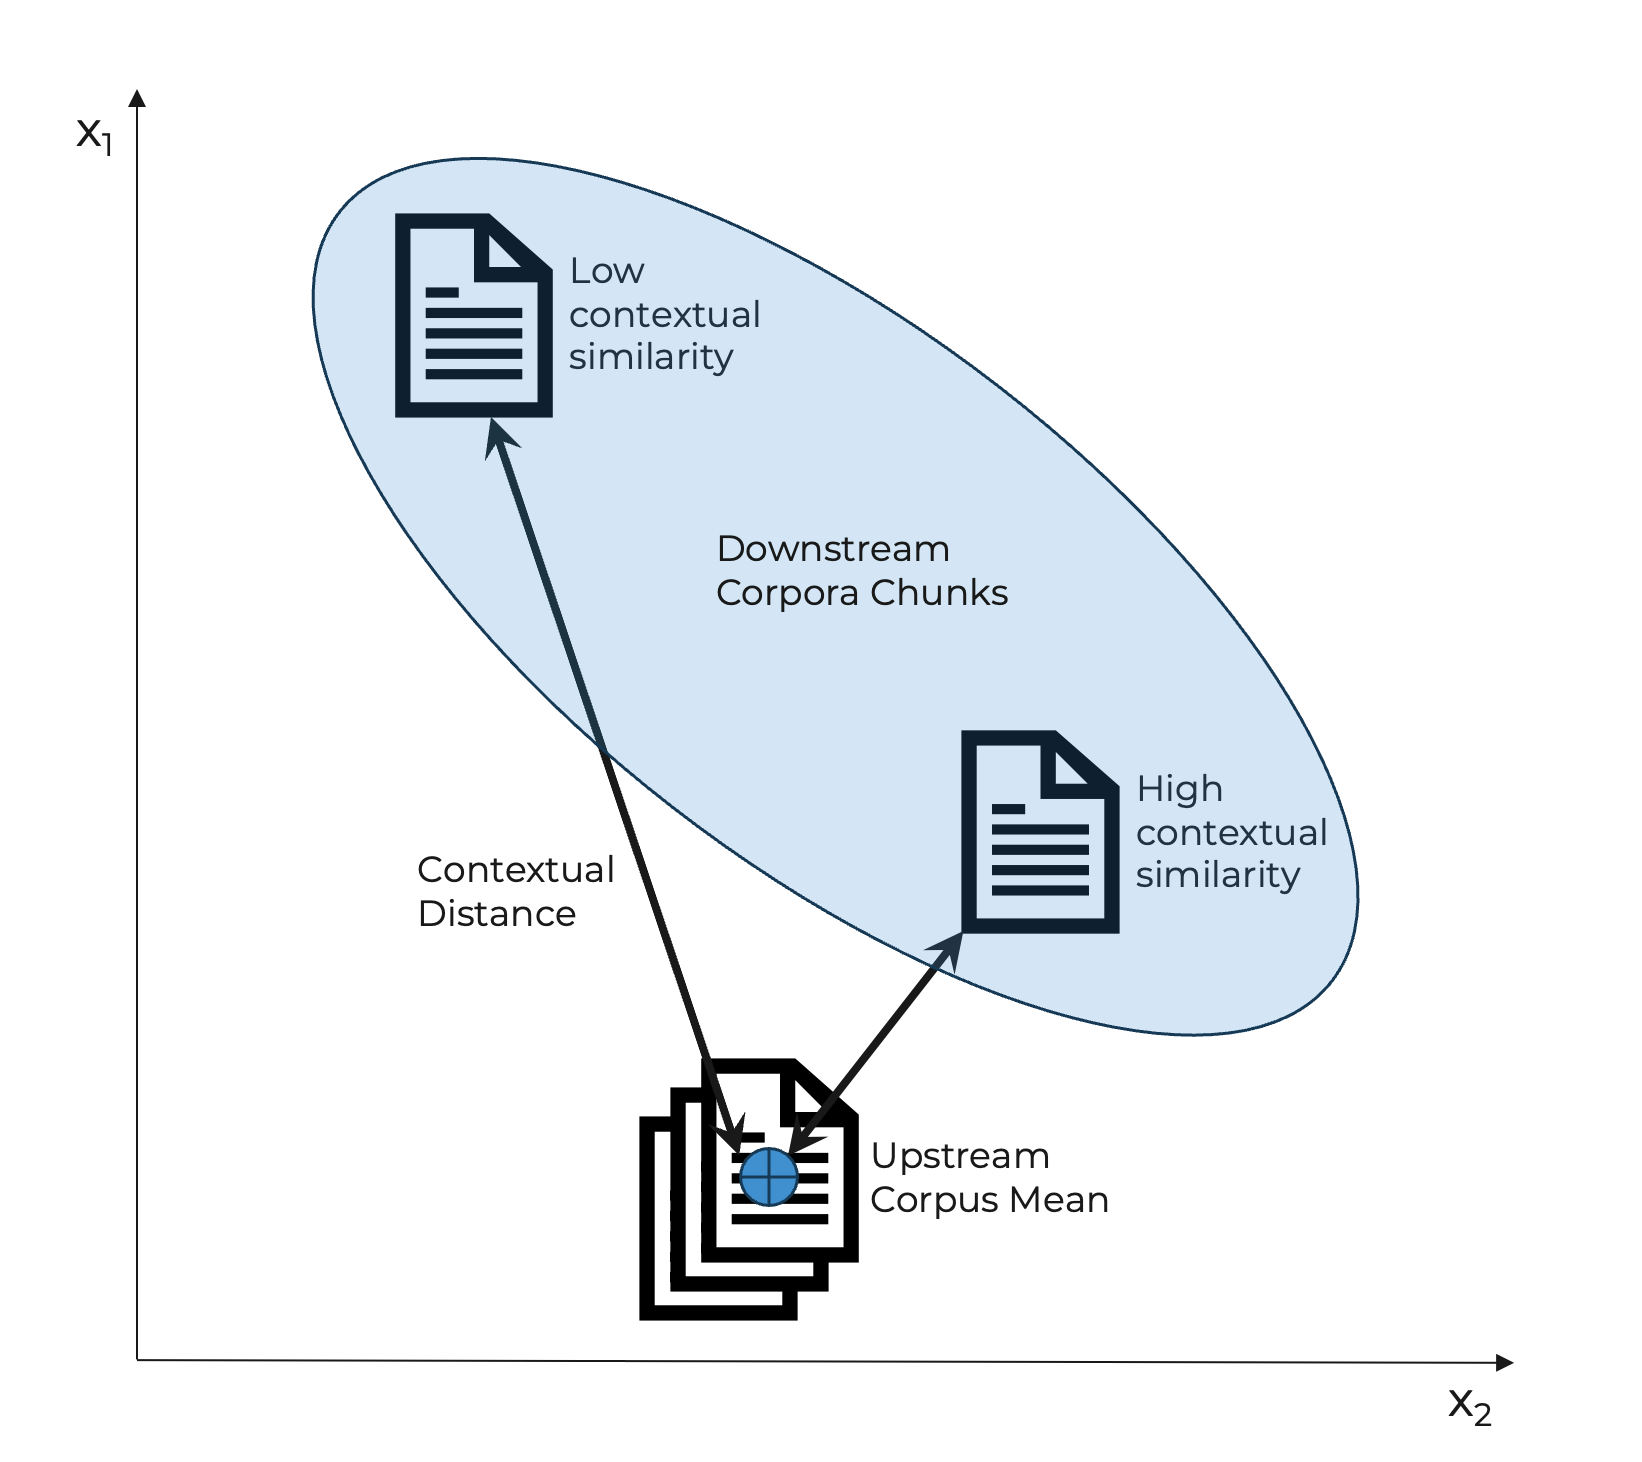
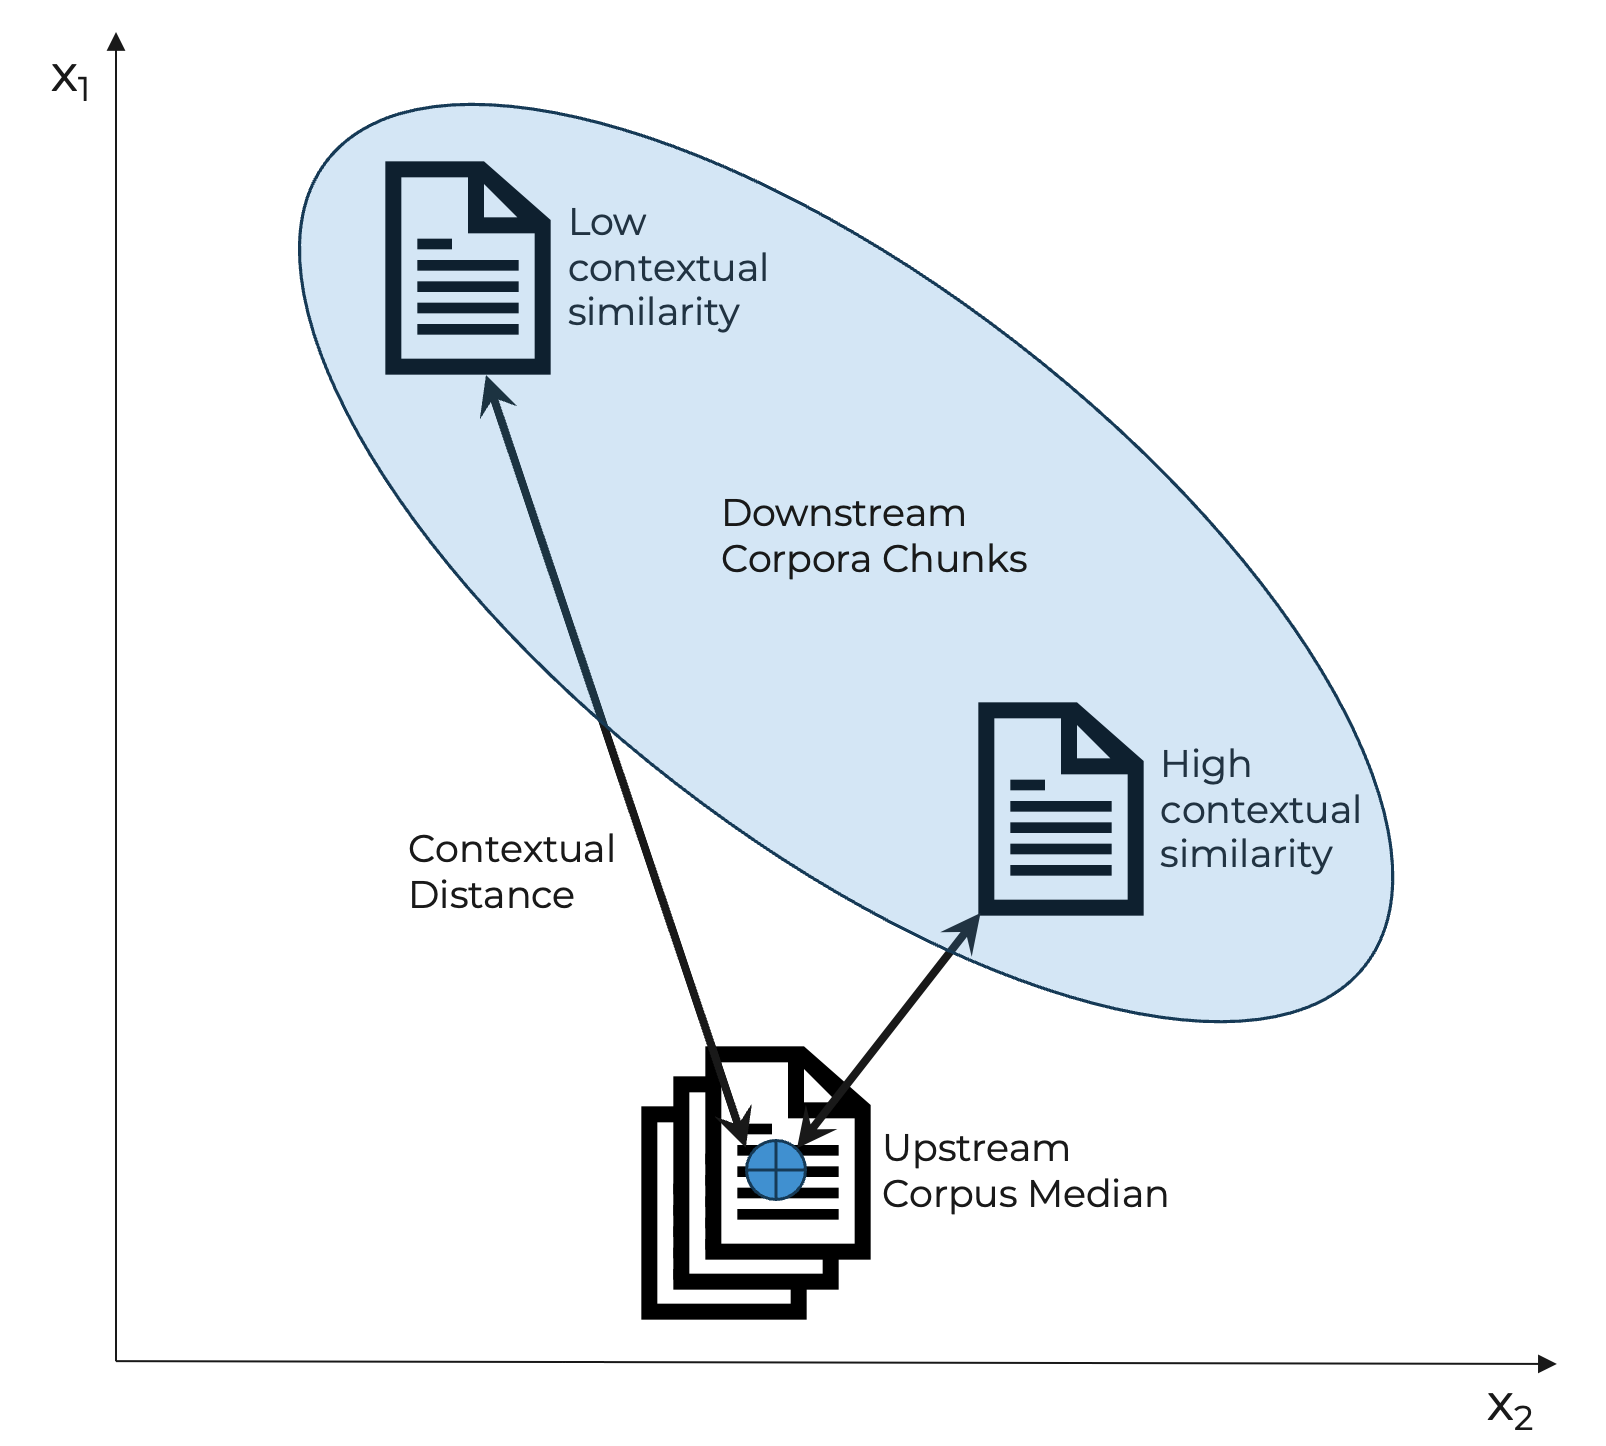
updates for review

diff --git a/NASA Science Alignment with Scientific Community/nasa_consensus_alignmnet.tex b/NASA Science Alignment with Scientific Community/nasa_consensus_alignmnet.tex
@@ -50,6 +50,8 @@
 %% \usepackage{lineno}
 
 %% Added by author
+% Allow long URLs in references to break at hyphens and other safe points.
+\PassOptionsToPackage{hyphens}{url}
 \usepackage{hyperref}
 \hypersetup{
   pdftitle={Measuring NASA Science Plan Alignment with Scientific Consensus: A Case Study in Space Science},
@@ -147,18 +149,19 @@
 %%%%%%%%%%%%%%%%%%%%%%%%%%%%%%%%%%%%%%%%%%%%%%%%%%%%%%%%%%%%%%%%%%%%%%%%%%%%%%%%%%%
 \begin{abstract}
 %% Text of abstract
-The National Academies of Science, Engineering and Medicine (NAS) conducts Decadal Surveys which NASA uses to prioritize budget and future strategy. This paper investigates how science plans at NASA align with scientific community consensus identified in the Decadal Surveys. We used Natural Language Processing (NLP) to compare these Surveys and NASA science plans, by highlighting similarities and discrepancies. We created a baseline of evidence based on a group of 4 Decadal Surveys from 2001 to 2007 and then we measured the similarities and dissimilarities between NASA science plans against this baseline. Alignment between science plans with baseline Decadal Surveys is shown to decrease over time, which can indicate a potential decreasing effect of earlier Decadal Surveys on later science plans, a shift in scientific consensus, or a shift in operational realities.
+The National Academies of Science, Engineering and Medicine (NAS) conducts Decadal Surveys which NASA uses to prioritize budget and future strategy. This paper investigates how science plans at NASA align with scientific community consensus identified in the Decadal Surveys. We used Natural Language Processing (NLP) to compare these Surveys and NASA science plans, by highlighting similarities and discrepancies. We created a baseline of evidence based on a group of 4 Decadal Surveys from 2001 to 2007 and then we measured the similarities and dissimilarities between NASA science plans against this baseline. Alignment between science plans with baseline Decadal Surveys is shown to decrease over time (-0.001/year, p=0.024), which can indicate a potential decreasing effect of earlier Decadal Surveys on later science plans, a shift in scientific consensus, or a shift in operational realities. Science Mission directorate led science plans have higher median alignment ($p=9.9\times10^{-5}$) than NASA led strategic plans. 
 \end{abstract}
 
 %%Graphical abstract
 \begin{graphicalabstract}
-\includegraphics[width=0.9\textwidth]{fig_graphical_abstract.png}
+\includegraphics[width=0.9\textwidth]{SWARM_ALL.png}
 \end{graphicalabstract}
 
 %%Research highlights
 \begin{highlights}
-\item Investigation of NASA Space Science Plans alignment with Decadal Surveys
-\item NASA Science plan alignment with Decadal Surveys decreased over time
+\item NLP-based semantic similarity to quantify NASA plan alignment with Decadal Surveys
+\item Median alignment decreases by 0.024 similarity units from 2007 to 2025
+\item SMD led science plans have 0.020 higher median alignment than NASA led strategic plans
 \end{highlights}
 
 %% Keywords
@@ -195,7 +198,7 @@ NASA science policy \sep Decadal Surveys \sep policy alignment \sep natural lang
 %%%%%%%%%%%%%%%%%%%%%%%%%%%%%%%%%%%%%%%%%%%%%%%%%%%%%%%%%%%%%%%%%%%%%%%%%%%%%%%%%%%
 \section{Introduction}
 
-NASA alignment with scientific community interests in science discovery is of major importance to the scientific community because it justifies federal funding of mission priorities, technology development, and theoretical research \cite{nasa_smd_hearing_2024}. Still, limited research has been conducted on this alignment with only two studies seeking to identify this relationship \cite{Trimble2011} \cite {pan2023seven_Decadals}. Trimble first conducted a retrospective review in 2011 by comparing what the Decadal Surveys asked for to what the scientific community received. Trimble found that roughly one third of requested facilities were completed with mostly federal funding within about 15 years. Pan and Trimble then conducted a followup review in 2023 expanding the review to seven astronomy/astrophysics Decadal Surveys over roughly 60 years. They updated their Requests Scorecard reporting 129 requests across Surveys, with 45 federally funded within 15 years, 13 funded within 15 years by mostly other sources, plus an additional 20 eventually built with federal funding, 11 eventually built with mostly other funding, and 38 never or very unlikely. Further, these studies focus solely on Astronomy and Astrophysics. We aim to observe project alignment across all NASA Science Mission Directorates using natural language processing techniques. 
+NASA alignment with scientific community interests in science discovery is of major importance to the scientific community because it justifies federal funding of mission priorities, technology development, and theoretical research \cite{nasa_smd_hearing_2024}. Still, limited research has been conducted on this alignment with only two studies seeking to identify this relationship \cite{Trimble2011} \cite {pan2023seven_Decadals}. Trimble first conducted a retrospective review in 2011 by comparing what the Decadal Surveys asked for to what the scientific community received. Trimble found that roughly one third of requested facilities were completed with mostly federal funding within about 15 years. Pan and Trimble then conducted a followup review in 2023 expanding the review to roughly 60 years.  The survey reported 129 requests across Surveys 45 of which were federally funded within 15 years, 13 were funded within 15 years by mostly other sources. An additional 20 requests were eventually completed with federal funding, 11 were eventually completed with mostly other funding, and 38 were identified as never or very unlikely to be completed. The studies focus solely on Astronomy and Astrophysics. We aim to observe project alignment across all NASA Science Mission Directorates using natural language processing techniques. 
 
 Creating a strategic plan for United States science discovery is a multi-agency, multi-year planning process. Two key corpora result from this planning process. The first corpus is U.S. National Academies of Science, Engineering, and Medicine (Academies) (NAS), which created the Decadal Surveys. The first Decadal Surveys were completed in 1964 in order to prioritize funding for astronomy projects that exceed individual agency budgets\cite{Academies2015_lessons}. The second corpus is composed of NASA planning documents authored at two different organizational levels. NASA Strategic Plans are products of the Office of the Administrator and establish agency goals and objectives\cite{WhiteHouse2021_space_priorities_framework}. SMD Science Plans which are products of NASA Science Mission Directorate and describe directorate-level science priorities, strategies, and implementation approaches.\cite{SMD_2025} In this paper we reefer to strategic and science plans collectively as NASA plans. NASA plans are used to define NASA project priorities while Decadal Surveys are used to identify scientific community interests.
 
@@ -211,26 +214,24 @@ Decadal Surveys are a strategic guide for the planning and execution of United S
 
 Decadal Surveys are important to the entire scientific community. Survey chairs and committee members are accomplished scientists and engineers who are active leaders in their field from top institutions and universities throughout the world. A review of Decadal Survey committee and panel members reflects a distinguished roster of leaders in science and engineering. NASA and National Science Foundation (NSF) officials refer to the Decadal Survey recommendations as a blueprint or guidebook and individual research scientists refer to the Surveys as a "sword and shield": a sword for wining approval and shield against cancellation of federally funded programs. Two independent studies of Surveys in 2011 \cite{Trimble2011} and 2023 \cite{pan2023seven_Decadals} both found that around 71\% of projects identified in the Decadal Surveys are funded by either federal funds or other sources. The US federal government provided majority funding for 37\% of requested items within 15 years of the survey and 53\% of items overall. Other state, private, and foreign sources provided majority funding for 10\% of items within 15 years of the survey and 19\% of items overall. The remaining 29\% of items requested were identified as very unlikely to be built or put in operation. 
 
-Stakeholders in the Decadal Surveys include many U.S. government agencies, departments, and well as private foundations that align with, or justify science funding by, Decadal Surveys such as the Alfred P. Sloan Foundation\cite{Sloan2021_decadal_private_funding} Gordon and Betty Moore Foundation\cite{Moore2017_hera_decadal_priority}, the Simmons foundation and the Heising-Simons Foundation\cite{NSF2023_advanced_simons_observatory}. NASA's Science Mission Directorate (SMD) is a typical and often central sponsor of the Decadal Surveys along with the NSF. Additional science community stakeholders in the Decadal Surveys include DOE, NOAA, and USGS. Congress, the Office fo Management and Budget, and other executive branch agencies use Decadal Surveys to evaluate budgetary plans.
+Stakeholders in the Decadal Surveys include many U.S. government agencies, departments, and private foundations that align with, or justify science funding by, Decadal Surveys such as the Alfred P. Sloan Foundation\cite{Sloan2021_decadal_private_funding} Gordon and Betty Moore Foundation\cite{Moore2017_hera_decadal_priority}, the Simmons foundation and the Heising-Simons Foundation\cite{NSF2023_advanced_simons_observatory}. NASA's Science Mission Directorate (SMD) is a typical and often central sponsor of the Decadal Surveys along with the NSF. Additional science community stakeholders in the Decadal Surveys include DOE, NOAA, and USGS. Congress, the Office fo Management and Budget, and other executive branch agencies use Decadal Surveys to evaluate budgetary plans.
 
 This multi-agency, multi-stakeholder arrangement, as well as the considerable workload, high standards, and complexity of the task causes the process of conducting Decadal Surveys to be long and complex, typically lasting about 2 years from organizing the survey committee through delivery of the final report. The process starts with the Academies creating a statement of task for the committee to respond to. The Academies' Space Studies Board works with other standing committees at the Academies to select a Survey chair and committee of around 20 members. The Survey committee, with help from Academies staff, organizes panels and working groups around science themes such as outer or inner planets, stellar or galaxy evolution, climate variability and change, and solar wind-magnetosphere interactions; observational techniques such as X-ray or radio observations; facilities such as ground-based versus space-based telescopes; and subjects such as infrastructure, research grants, workforce diversity, applications, and graduate education. This freedom of organization allows for the culture of the scientific field and preference of the Survey organizers to mold the committee. The Surveys gather broad community input through public meetings, white papers, and direct presentations. The panels then create a ranked program of missions and activities based on science and observational capabilities specific to the panels area of responsibility. Panel priorities are then ranked across the field by the Survey committee. 
 
-Independent reviews ensure scientific and fiscal rigor. For larger space missions and ground-based facilities, independent cost and technical risk evaluation is conducted through the decadal survey CATE process, typically by The Aerospace Corporation under National Academies oversight, as mandated by Congress \cite{congress2008NASA}. The final survey report separately undergoes the National Academies' independent report-review process to validate that conclusions are supported and documented.
-
-Independent reviews ensure scientific and fiscal rigor. Once panels and committees have completed their work, independent cost and risk evaluation is conducted for larger space missions and ground based facilities as mandated by the U.S. Congress by contracting private companies such as The Aerospace Corporation\cite{congress2008NASA}. The committee's report also undergoes an independent review to validate that conclusions are supported and documented. The final report takes around 2 years to complete and provides a consensus vision of for its respective field.
+Independent reviews ensure scientific and fiscal rigor. Once panels and committees have completed their work, independent cost and risk evaluation is conducted for larger space missions and ground based facilities as mandated by the U.S. Congress. Evaluations are often contracted to private companies such as The Aerospace Corporation\cite{congress2008NASA}. The committee's report also undergoes an independent review to validate conclusions are supported and documented. The final report takes around 2 years to complete and provides a consensus vision of for its respective field.
 
 Follow-up on Decadal Surveys requires multi-agency involvement. Once the Survey report is published the committee is disbanded. Post report stewardship is conducted by standing committees at the Space Studies Board through periodic reviews, which offer guidance to the agencies on Decadal programs. The NASA Advisory Council's Science subcommittees at the Academies follow NASA's progress. A congressionally directed midterm review of Decadal Surveys focus on agency progress to compare activities with Survey science goals is also conducted \cite{congress2005nasa}. The National Science Foundation receives input from the scientific community through proposals to it's various programs. The Department of Energy evaluates progress through extensive internal processes for energy related components of the Surveys while independent committees such as the Astrophysics Advisory Committee, provide advisory services on multi-agency projects.
 
 Decadal Surveys serve as a national science strategy and are intended to inform science strategy at NASA and other federal agencies. 
 
 \subsection{NASA Science Strategy}
-NASA captures it's science strategy in NASA agency strategic plans and NASA Science Mission Directorate science plans. These plans are policy documents that turn national priorities, congressional direction, budget realities, and scientific-community guidance from decadal surveys into NASA’s science objectives and portfolio balance. Instead of focusing on individual missions they set mission-development priorities. 
+NASA captures it's science strategy in NASA agency strategic plans and NASA Science Mission Directorate science plans. These plans are policy documents that turn national priorities, congressional direction, budget realities, and scientific-community guidance from decadal surveys into NASA's science objectives and portfolio balance. Instead of focusing on individual missions they set mission-development priorities. 
 
 NASA relies heavily on Decadal Surveys to inform its science strategy. NASA's 2025 Presidents Budget Request states "SMD uses the recommendations of the National Academies' Decadal Surveys as important inputs in planning and prioritizing the future of its science programs." The same budget references Decadal Surveys 87 times, demonstrating NASA's focus on the Surveys to define science strategy \cite{NASA2025budget}. 
 
 The Decadal Surveys are not the only input to NASA science strategy. The Office of the Chief Scientist (OCS) represents all of the scientific endeavors in the agency, ensuring they are aligned with and fulfill the administration's science objectives \cite{nasa_partnerships_2024}. International scientific consensus is also important, since two-thirds of SMD missions involve international partnerships \cite{nasa_smd_hearing_2024}. 
  
-Science strategy is further refined by operational realities. The SMD Large Mission Study (LMS) Report lays out the most current Simplified Project Lifecycle available. This report identifies 7 Project Life-Cycle Phases, three of which occur prior to implementation and are therefore germane to the the project prioritization process. These 3 phases are: \emph{Phase Pre-A: Concept Studies}, \emph{Phase A: Concept and Technology Development}, and \emph{Phase B: Preliminary Design and Technology Completion}. During this process Decadal Survey recommendations are turned into decisions on mission architectures, preliminary requirements and budget estimates. In the Pre-Phase-A period, missions are not yet projects and focus is on quantifying science vs. cost, exploiting the range of solutions while maintaining dialog with Academy committees to ensure the intent of the Decadal Survey is honored. Once the decision authority determines the project is ready to transition into Pase A, the concept is determined to be executable. The concept begins to be developed into technology in Phase A and preliminary designs are completed in Phase B. Once Phase B is completed the concept becomes a project. \cite{NASA2020_LMS_study} \cite{wessen2013ConceptMaturity}.
+Science strategy is further refined by operational realities. The SMD Large Mission Study (LMS) Report lays out the most current Simplified Project Lifecycle available. This report identifies 7 Project Life-Cycle Phases, three of which occur prior to implementation and are therefore germane to the the project prioritization process. These 3 phases are: \emph{Phase Pre-A: Concept Studies}, \emph{Phase A: Concept and Technology Development}, and \emph{Phase B: Preliminary Design and Technology Completion}. During this process Decadal Survey recommendations are turned into decisions on mission architectures, preliminary requirements and budget estimates. In the Pre-Phase-A period, missions are not yet projects and focus is on quantifying science vs. cost and exploiting the range of solutions while maintaining dialog with Academy committees to ensure the intent of the Decadal Survey is honored. Once the decision authority determines the project is ready to transition into Phase A, the concept is determined to be executable. The concept begins to be developed into technology in Phase A and preliminary designs are completed in Phase B. Once Phase B is completed the concept becomes a project. \cite{NASA2020_LMS_study} \cite{wessen2013ConceptMaturity}.
 
 The science strategy that results from this refinement process is defined in the NASA science strategy documents that are created.
 
@@ -325,39 +326,48 @@ Figure~\ref{fig_simple_context_dist} is a simplified representation of the conte
 \centering
 \includegraphics[width=0.7
 \textwidth]{fig_simple_context_dist.png}
-\caption{\textbf{Simplified Contextual Distance Model.} The variables $X_1$ and $X_2$ represent abstract axes of semantic similarity, simplifying the high-dimensionality space of 1532 dimensions into two unitless axes for visualization. Downstream corpora chunks are represented inside the oval highlight. The mean of the upstream corpus is represented by the blue dot. Lines illustrate the semantic alignment between the upstream and downstream corpora. Closer downstream chunks have higher semantic alignment to the upstream mean.}
+\caption{\textbf{Simplified Contextual Distance Model.} The variables $X_1$ and $X_2$ represent abstract axes of semantic similarity, simplifying the high-dimensionality space of 1532 dimensions into two unitless axes for visualization. Downstream corpora chunks are represented inside the oval highlight. The median of the upstream corpus is represented by the blue dot. Lines illustrate the semantic alignment between the upstream and downstream corpora. Closer downstream chunks have higher semantic alignment to the upstream median.}
 
 \label{fig_simple_context_dist}
 \end{figure}
 
-The alignment of each page in the NASA plan is calculated from the mean of the Decadal Survey sample corpus. The baseline of Decadal Surveys is assigned a distance value of 0. A perfectly aligned page would have a distance of 0 and lie directly on the axis. Individual pages of NASA plans are represented by points shown in Figure~\ref{fig2}. Finally the median similarity of the NASA plan pages is represented by the line plot. 
+The alignment of each page in the NASA plan is calculated from the median of the Decadal Survey sample corpus represented by the blue dot surrounded by multiple pages. Individual pages of NASA plans are represented by individual page icons in Figure~\ref{fig_simple_context_dist}. 
 
-The distance between Decadal Survey and science plans is measured using cosine similarity. Cosine similarity measures the angular distance between word vectors to determine the alignment of each page to the Decadal Survey corpus. Measuring by angular distance inherently normalizes for the natural page length variation in the corpora insuring page size does not skew the alignment scores\cite{manning2008_introduction_ir}. Cosine similarity was used in the training of the original embeddings model\cite{neelakantan2022openAi_embeddings} which creates a geometric structure we can better map to using cosine similarity.  
+The distance between Decadal Survey and science plans is represented by the lines connecting the pages and is measured using cosine similarity. Cosine similarity measures the angular distance between word vectors to determine the alignment of each page to the Decadal Survey corpus. Measuring by angular distance inherently normalizes for the natural page length variation in the corpora insuring page size does not skew the alignment scores\cite{manning2008_introduction_ir}. Cosine similarity was used in the training of the original embeddings model\cite{neelakantan2022openAi_embeddings} which creates a geometric structure we can better map to using cosine similarity. A perfectly aligned page would have a distance of 0 and, correspondingly, a cosine similarity of 1.
 
 %%%%%%%%%%%%%%%%%%%%%%%%%%%%%%%%%%%%%%%%%%%%%%%%%%%%%%%%%%%%%%%%%%%%%%%%%%%%%%%%%%%
 % results
 %%%%%%%%%%%%%%%%%%%%%%%%%%%%%%%%%%%%%%%%%%%%%%%%%%%%%%%%%%%%%%%%%%%%%%%%%%%%%%%%%%%
 \section{Analysis and Results} 
 \label{anal_results}
-Figure~\ref{fig2} displays the analysis of semantic alignment between NASA science plans and Decadal Surveys. The analysis spans from 2007 to 2023. The x-axis displays the publication year of the science plans, while the y-axis shows alignment of science plans to the mean of Decadal Surveys. Each point represents a page from a science plan color coded to distinguish SMD-led plans from NASA-led plans. Points further from the x-axis have lower alignment to the Decadal Survey mean. A solid line represents the median similarity over time to illustrate the overarching trend. 
+Figure~\ref{swarm_all} displays the analysis of semantic alignment between NASA science plans and Decadal Surveys. The analysis spans from 2007 to 2025. The x-axis displays the publication year of the science plans, while the y-axis shows alignment of science plans to the Decadal Survey median. Each point represents a page from a science plan and is color coded to distinguish SMD-led plans from NASA-led plans. Points closer to the x-axis have lower alignment to the Decadal Survey median. A solid line represents the median similarity over time to illustrate the overarching trend. 
+
+Yearly median similarity has an estimated decline of -0.001 similarity units per year coresponding to an overall decline of -0.024 similarity units from 2007 to 2025. A one-sided permutation test indicates this is a true nonzero trend with over 95\% confidence ($p=0.024$). Bootstrap 95\% confidence intervals are negative for both the slope (-0.0024 to -0.0002) and total change (-0.043 to -0.004). A linear fit yields $R^2 = 0.494$ indicating around half of the variation in midian similarity can be explained by time. These results support a modest downward shift in median similarity over time.
 
 \begin{figure}[H]
 \centering
-\includegraphics[width=0.9\textwidth]{fig_SP_to_DS_similarity.png}
-\caption{\textbf{NASA Science Plan Similarity to Decadal Surveys.} Publication year is displayed on the x-axis and semantic aliment to the Decadal Survey mean is measured on the y-axis. Single science plan pages are represented by individual points with color coding to distinguish SMD and NASA led plans. The solid line tracks the trend of median similarity over time.}\label{fig2}
+\includegraphics[width=0.9\textwidth]{SWARM_ALL.png}
+\caption{\textbf{NASA Science Plan Similarity to Decadal Surveys.} Publication year is displayed on the x-axis and semantic aliment to the Decadal Survey median is measured on the y-axis. Single science plan pages are represented by individual points with color coding to distinguish SMD and NASA led plans. The solid line tracks the trend of median similarity over time. Points closer to the x-axis have lower alignment. One-sided permutation test ($p=0.024$) and bootstrap 95\% confidence intervals for slope (-.0024 to -0.0002) support a modest downward shift in median similarity over time.}\label{swarm_all}
 \end{figure}
 
-We can observe two patterns from Figure~\ref{fig2}. First the median similarity of the NASA plans in relation to Decadal Surveys is decreasing over time. Second there is a difference between NASA led plans and SMD led plans as shown by the different colors representing the pages in each corpus.  SMD led plan pages tend to be closer to the Decadal Survey mean. 
+Figure~\ref{SWARM_SMD_vs_NASA} separates Science Mission Directorate led science plans from NASA led strategic plans. Pages in the corpus are once again represented by points on the graph and a median line is placed for each corpus subset. The SMD distribution is visibly shifted upward indicating a higher alignment with decadal surveys. The plotted median lines report a higher median for SMD Science plans ($0.895; n=551$) than for NASA Strategic Plans ($0.875; n=231$) with a difference of 0.020. A two-sided permutation test indicates the difference between medians is statistically significant ($p=9.9\times10^{-5}$) and a bootstrap 95\% confidence interval (0.016 to 0.025) excludes zero, supporting a significant difference between corpora. 
+
+\begin{figure}[H]
+\centering
+\includegraphics[width=0.9\textwidth]{SWARM_SMD_vs_NASA.png}
+\caption{\textbf{NASA Science Mission Directorate and NASA Plans.} SMD alignment scores are shifted upward indicating SMD plans have a higher alignment with decadal surveys. SMD Science plans median (0.895; n=551) compared to NASA Strategic Plans median (0.875; n=231; $Delta=0.020$). The median difference is statistically significant at $p=9.9\times10^{-5}$ from a two-sided permutation test and bootstrap 95\% CI [0.016, 0.025].}\label{SWARM_SMD_vs_NASA}
+\end{figure}
+
+We can observe two patterns from Figure~\ref{swarm_all} and Figure~\ref{SWARM_SMD_vs_NASA}. First the median similarity of the NASA plans in relation to Decadal Surveys is decreasing over time. Second there is a difference between NASA led plans and SMD led plans. SMD led plan pages tend to be closer to the Decadal Survey median.
 %%%%%%%%%%%%%%%%%%%%%%%%%%%%%%%%%%%%%%%%%%%%%%%%%%%%%%%%%%%%%%%%%%%%%%%%%%%%%%%%%%%
 % Discussion
 %%%%%%%%%%%%%%%%%%%%%%%%%%%%%%%%%%%%%%%%%%%%%%%%%%%%%%%%%%%%%%%%%%%%%%%%%%%%%%%%%%%
 \section{Discussion and Future Work}
 \label{discussion}
 
-The decreased alignment over time between NASA plans and Decadal Surveys likely has many causal factors. In addition to Decadal Surveys NASA must have many other competing influences in science plans. We can conjecture that the decreased alignment may be a result of changes in consensus as Surveys are updated, changes in executive branch priorities, changes in congressional funding, or changes in operational realities. This introduces multiple vectors that are not accounted for in an analysis that focuses only on Decadal Surveys alignment to science plans. The limited amount of data due to the once a decade periodicity of Survey publication limits the conclusions that can be drawn and ultimately provides analogous results. 
+The decreased alignment over time between NASA plans and Decadal Surveys likely has many causal factors. In addition to Decadal Surveys NASA must have many other competing influences in science plans. We can conjecture that the decreased alignment may be a result of changes in consensus as Surveys are updated, changes in executive branch priorities, changes in congressional funding, or changes in operational realities. This introduces multiple vectors that are not accounted for in an analysis that focuses only on Decadal Surveys alignment to science plans. The difference in median alignment of SMD Science Plans and NASA Strategic plans is potentially the result of an increased effect from these unaccounted for vectors. The limited amount of data due to the once a decade periodicity of Survey publication limits the conclusions that can be drawn and ultimately provides analogous results. 
 
-The alignment analysis conducted here suggests that measuring the change in semantic similarity is a useful methodology and highlights several areas for further study. This particular study could be expanded by categorizing Decadal Surveys into the 5 SMD divisions and exploring a more fine grained analysis of each scientific community. As a general approach, cross corpus contextual similarity analysis may be useful in other other areas where cross organizational alignment is a concern.  The approach could be extended by comparing page level, or smaller pieces of text across corpora by means of clustering algorithms. Optimization of architecture could also be explored by optimizing for embeddings models and hyperparameters.   
-
+The alignment analysis conducted here suggests that measuring the change in semantic similarity is a useful methodology and highlights several areas for further study. This particular study could be expanded by categorizing Decadal Surveys into the 5 SMD divisions and exploring a more fine grained analysis of each scientific community. As a general approach, cross corpus contextual similarity analysis may be useful in other other areas where cross organizational alignment is a concern.  The approach could be extended by comparing page level, or smaller pieces of text across corpora by means of clustering algorithms. Optimization of architecture could also be explored by optimizing for embeddings models and hyperparameters.
 
 %%%%%%%%%%%%%%%%%%%%%%%%%%%%%%%%%%%%%%%%%%%%%%%%%%%%%%%%%%%%%%%%%%%%%%%%%%%%%%%%%%%
 % appendix